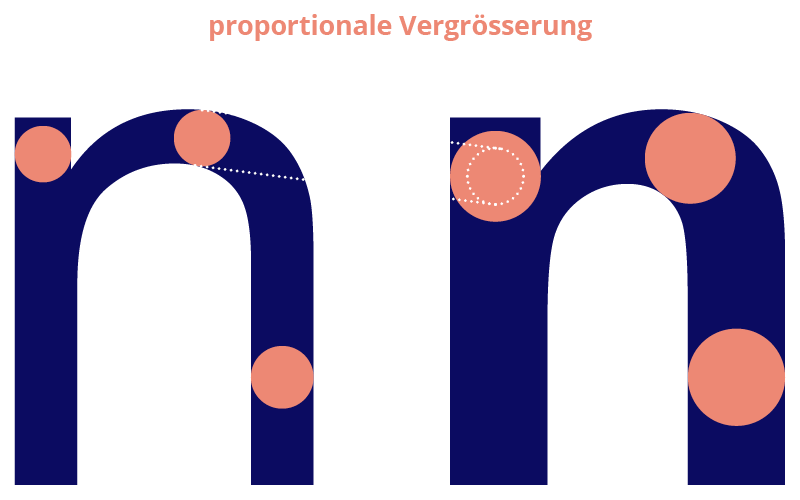
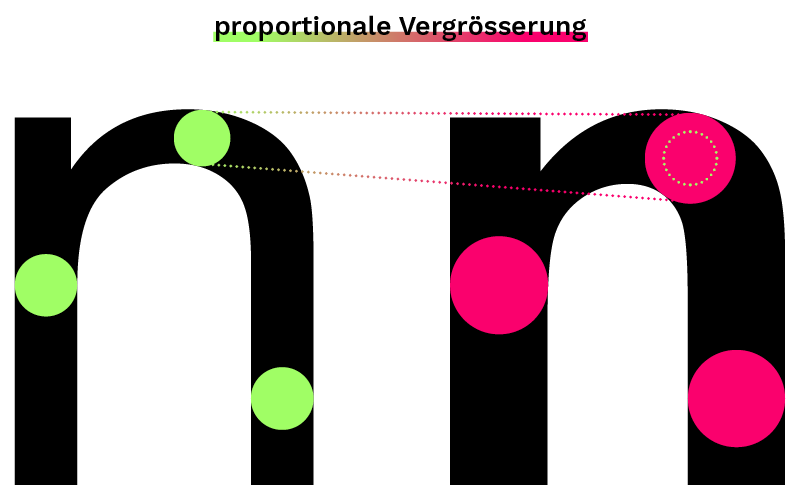
farbliche Anpassungen

diff --git a/docs/chantal.html b/docs/chantal.html
@@ -2,40 +2,41 @@
 <html lang="de">
   <head>
     <meta charset="utf-8">
-    <title>Strichstärken</title>
+    <title>Strichstärke</title>
     <link rel="stylesheet" href="./CSS/main.css" />
     <link rel="stylesheet" href="./CSS/examples.css" />
     <script src="./js/main.js"></script>
     <link rel="stylesheet" type="text/css" href="./CSS/chantal.css">
     <link href="https://fonts.googleapis.com/css2?family=Work+Sans:ital,wght@0,100;0,200;0,300;0,400;0,500;0,600;0,700;0,800;0,900;1,100;1,200;1,300;1,400;1,500;1,600;1,700;1,800;1,900&display=swap" rel="stylesheet">
-    <link href="https://fonts.googleapis.com/css?family=Open+Sans" rel="stylesheet" >
+    <link href="https://fonts.googleapis.com/css?family=Open+Sans" rel="stylesheet">
     </head>
 
   <body>
   <section class="wrapper">
 
   <div class="header bild_beschriftung">
-    <span>Strichstärke</span>
+    <span>STRICH<b>STÄRKE</b></span>
     <img src="./Links/chantal/Headerbild_transparent.png" alt="header"></img>
   </div>
 
   <div class="box sidebar">
-    <h2>Ursprung</h2>
   </div>
 
   <div class="box content">
-      <p>Die Bezeichnung «Strichstärke» findet ihren Ursprung in der Kalligraphie. Durch eine Schrägstellung der Schreibfeder gegenüber dem Grundstrich, entstanden «Aufstriche» mit unterschiedlichen Strichstärken (Kontrast), welche als Haarstrich bezeichnet wurden. Bei gebrochenen Schriften und vielen Dekorschriften (z.B. Bodoni, Broadway) ist die Betonung des Kontrastes ein häufiges Stilmittel (Abb. 1).
+      <h2>Ursprung</h2>
+        <p>Die Bezeichnung &laquo;Strichstärke&raquo; findet ihren Ursprung in der Kalligraphie. Durch eine Schrägstellung der Schreibfeder gegenüber dem Grundstrich, entstanden &laquo;Aufstriche&raquo; mit unterschiedlichen Strichstärken (Kontrast), welche als Haarstrich bezeichnet wurden. Bei gebrochenen Schriften und vielen Dekorschriften (z.B. Bodoni, Broadway) ist die Betonung des Kontrastes ein häufiges Stilmittel (Abb. 1).
         <br>
         <br>
-        Zusammen mit den Entwicklungen in der Drucktechnik, der Tinte und der Papierherstellung wurden kontrastreiche Buchstabenformen mit zarten Haarlinien gedruckt, die sich zunehmend von den geschriebenen Buchstabenformen ablösten. Mit der Digitalisierung der Schriften kamen immer häufiger lineare Strichstärken mit ungefähr gleichbleibend starken Grundstrichen (Abb. 2) zum Einsatz.</p>
+        Zusammen mit den Entwicklungen in der Drucktechnik, der Tinte und der Papierherstellung wurden kontrastreiche Buchstabenformen mit zarten Haarlinien gedruckt, die sich jedoch zunehmend von den geschriebenen Buchstabenformen ablösten. Mit der Digitalisierung der Schriften kamen immer häufiger lineare Strichstärken mit ungefähr gleichbleibend starken Grundstrichen zum Einsatz (Abb. 2).
+        </p>
   </div>
 
   <div class="box sidebar2">
         <img src="./Links/chantal/Auf-Abstrich.png" alt="Auf- und Abstrich" class="bild"></img>
-        <figcaption>Abb. 1 – betonter Kontrast</figcaption>
+        <figcaption>Abb. 1 &ndash; variable Strichstärke</figcaption>
         <br>
         <img src="./Links/chantal/gleiche_Dicke.png" alt="gleich bleibende Dicke" class="bild"></img>
-        <figcaption>Abb. 2 – gleichbleibender Grund-/Haarstrich </figcaption>
+        <figcaption>Abb. 2 &ndash; gleichbleibender Grund- und Haarstrich </figcaption>
   </div>
 </section>
 
@@ -43,66 +44,75 @@
 <section class="wrapper">
 
 <div class="box sidebar">
-  <h2>Theorie</h2>
 </div>
 
 <div class="box content">
-    <p>Eine dickere Schrift betont innerhalb eines Textes einzelne Wörter, während die Strichbreite der Schrift – durch fett gesetzte Überschriften – die Hierarchie im Design der Seite wiederspiegelt.
+    <h2>Theorie</h2>
+      <p>Eine dickere Schrift betont innerhalb eines Textes einzelne Wörter, während die Strichbreite der Schrift &ndash; durch fett gesetzte Überschriften &ndash; die Hierarchie im Design der Seite wiederspiegelt.
       <br>
       <br>
-      Schriftfamilien sind in der Regel in verschiedenen Strichstärken (englisch: font-weight) ausgebaut, z.B. leicht, normal, fett oder extrafett. Diese Bezeichnungen werden jedoch je nach Schriftart sehr uneinheitlich verwendet (Abb. 3+4). Für Lesetexte darf die Strichstärke weder zu fein sein, damit ausreichender Kontrast zum Untergrund gewährleistet ist, noch zu fett, da sonst die Punzen (Innenfläche eines Buchstabens) zu klein werden. </p>
+      Schriftfamilien sind in der Regel in verschiedenen Strichstärken (englisch: font-weight) ausgebaut, z.B. leicht, normal, fett oder extrafett. Wie schwarz eine Schrift ist, wird mit der Variation der Schriftstärke angegeben (Abb. 3).
+      <br>
+      <br>
+      Für Lesetexte darf die Strichstärke weder zu fein sein, damit ausreichender Kontrast zum Untergrund gewährleistet ist, noch zu fett, da sonst die Punzen (Innenfläche eines Buchstabens) zu klein werden (Abb. 4).
+      </p>
 </div>
 
 <div class="box sidebar2">
-      <img src="./Links/chantal/Schnitte_Helvetica-Neue.png" alt="Schriftstärken" class="bild"></img>
-      <figcaption>Abb. 3 – Helvetica Neue mit vordefinierten Schriftschnitten</figcaption>
+      <img src="./Links/chantal/Typo-Effekt.png" alt="Schriftstärken" class="bild"></img>
+      <figcaption>Abb. 3 &ndash; Porträt nur mit Wörtern im Typo-Effekt &nbsp;<a target="_blank" rel="noopener noreferrer" href="https://hoeser-medien.de/2017/12/text-generator-fuer-typo-effekt-photoshop-aktion/" style="text-decoration: none;"> (Quelle)</a> </figcaption>
       <br>
-      <img src="./Links/chantal/Schnitte_Roboto.png" alt="Schriftstärken" class="bild"></img>
-      <figcaption>Abb. 4 – Roboto arbeitet mit Zahlenwerten</figcaption>
+      <img src="./Links/chantal/Unterschied_Schriftschnitte.png" alt="Schriftstärken" class="bild"></img>
+      <figcaption>Abb. 4 &ndash; Links: zu wenig Schriftkontrast, Rechts: Die Punzen sind fast verschwunden</figcaption>
 </div>
 </section>
 
 <section class="wrapper">
 
 <div class="box sidebar">
-  <h2>CSS & HTML</h2>
 </div>
 
 <div class="box content">
-    <p>Auch hier bezeichnet die Strichstärke die Dicke und Stärke einer Schrift. Mit der Property «font-weight» wird bestimmst wie dick (fett) und stark eine Schrift angezeigt werden soll. Meist wird der Befehl «bold» für eine fette und «normal» für eine reguläre Schrift benutzt. Je nach Schrift kann die Strichstärke aber noch genauer festgelegt werden. Dies geschieht dann mit Zahlenwerten – z.B. mit <code>font-weight: 320;</code> </p>
+    <h2>CSS & HTML</h2>
+    <p>Auch hier bezeichnet die Strichstärke die Dicke und Stärke einer Schrift. Mit der Property <code>font-weight:</code> wird bestimmt wie dick (fett) und stark eine Schrift angezeigt werden soll (Abb. 5).
+      Meist wird der Befehl &laquo;bold&raquo; für eine fette und &laquo;normal&raquo; für eine reguläre Schrift benutzt. Je nach Schrift kann die Strichstärke aber noch genauer festgelegt werden. Dies geschieht dann mit Zahlenwerten.
+    </p>
     <br>
-<p>Folgende Properties sind möglich:
-  <p><code>font-weight: lighter;</code><br>= dünner als im Elternelement</p>
-<p><code>font-weight: normal;</code><br>= normale Strichstärke</p>
-<p><code>font-weight: bold;</code><br>= fett</p>
-<p><code>font-weight: bolder;</code><br>= fetter als im Elternelement</p>
-<p><code>font-weight: 100,200, … ,900;</code><br>= Thin (100) bis Black (900)</p>
-<p><code>font-weight: inherit;</code><br>= Strichstärke des Elternelements</p>
+<p><b>Folgende Properties sind möglich:</b>
+<p><code>font-weight: lighter;</code><br>&raquo; dünner als im Elternelement</p>
+<p><code>font-weight: normal;</code><br>&raquo; normale Strichstärke</p>
+<p><code>font-weight: bold;</code><br>&raquo; fett</p>
+<p><code>font-weight: bolder;</code><br>&raquo; fetter als im Elternelement</p>
+<p><code>font-weight: 100,200, … ,900;</code><br>&raquo; Thin (100) bis Black (900)</p>
+<p><code>font-weight: inherit;</code><br>&raquo; Strichstärke des Elternelements</p>
 </div>
 
 <div class="box sidebar2">
       <img src="./Links/chantal/Vergroesserung.png" alt="proportionale Vergrösserung" class="bild"></img>
-      <figcaption>Abb. 5 – "font-weight" = Mass für die Strichbreite einer Schrift</figcaption>
+      <figcaption>Abb. 5 &ndash; &laquo;font-weight&raquo;: Mass für die Strichbreite einer Schrift</figcaption>
 </div>
 </section>
 
 <section class="wrapper">
 
 <div class="box sidebar">
-  <h2>Work Sans</h2>
 </div>
 
 <div class="box content">
-    <p> Bei der Work Sans handelt es sich um eine Schriftfamilie in Anlehnung früher Groteskschriften (z.B. Bauerschen Giesserei), welche vom – in China geborenen – australischen Typografie-Designer Wei Huang kreiert wurde.
+    <h2>Work Sans</h2>
+      <p> Bei der Work Sans handelt es sich um eine serifenlose Schriftfamilie in Anlehnung früher Groteskschriften (z.B. Bauerschen Giesserei), welche vom &ndash; in China geborenen &ndash; australischen Typografie-Designer Wei Huang kreiert wurde.
       <br>
       <br>
-      Er entwirft und produziert Schriften, gibt Unterricht und stellt seine Arbeiten aus. Für Huang fühlt sich das Zeichnen von Schriften wie Meditation an. Die Work Sans wurde für den Druck als auch für die Online-Anwendung optimiert (Abb. 6). Sie in neun Strichstärken erhältlich und wurde 2018 mit kursiven Schnitten ergänzt.
-</p>
+        Heute entwirft und produziert er Schriften, gibt Unterricht und stellt seine Arbeiten aus. Für Huang fühlt sich das Zeichnen von Schriften wie Meditation an.
+      <br>
+      <br>
+        Die Work Sans wurde sowohl für den Druck als auch für die Online-Anwendung optimiert (Abb. 6). Sie ist in neun Strichstärken erhältlich und wurde 2018 mit kursiven Schnitten (nur für Web erhältlich) ergänzt.
+      </p>
       </div>
 
       <div class="box sidebar2">
-        <img src="./Links/chantal/Playfair-Display.gif" alt="Work Sans" class="bild"></img>
-      <figcaption>Abb. 6 – Work Sans in all ihren Schnitten</figcaption>
+        <img src="./Links/chantal/Work-Sans-Schnitte.png" alt="Work Sans" class="bild"></img>
+      <figcaption>Abb. 6 &ndash; Work Sans in neuen Strichstärken</figcaption>
     </div>
 </section>
 
@@ -110,20 +120,20 @@
 <section class="wrapper">
 
 <div class="box sidebar">
-  <h2>Quellen</h2>
 </div>
 
 <div class="box content">
+  <h2>Quellen</h2>
       <ul style="list-style-type:square">
-          <li><a target="_blank" rel="noopener noreferrer" href="https://de.wikipedia.org/wiki/Strichst%C3%A4rke" style="text-decoration: none;">Wikipedia: Strichstärke</a></li>
-          <li><a target="_blank" rel="noopener noreferrer" href="https://www.leserlich.info/kapitel/zeichen/strichstaerke.php" style="text-decoration: none;">Kapitel Strichstärke auf "leserlich.info"</a></li>
-          <li><a target="_blank" rel="noopener noreferrer" href="https://wiki.selfhtml.org/wiki/CSS/Eigenschaften/Schriftformatierung/font-weight" style="text-decoration: none;">Kapitel font-weight auf "wiki.selfhtml.org"</a></li>
-          <li><a target="_blank" rel="noopener noreferrer" href="https://fonts.google.com/specimen/Work+Sans?query=work+sans#standard-styles" style="text-decoration: none;">Google Fonts</a></li>
-          <li><a target="_blank" rel="noopener noreferrer" href="https://www.typografie.info/3/Schriften/fonts.html/work-sans-r1149/" style="text-decoration: none;">Font-Wiki</a></li>
+        <li><a target="_blank" rel="noopener noreferrer" href="https://de.wikipedia.org/wiki/Strichst%C3%A4rke" style="text-decoration: none;">Wikipedia: Strichstärke</a></li>
+        <li><a target="_blank" rel="noopener noreferrer" href="https://www.leserlich.info/kapitel/zeichen/strichstaerke.php" style="text-decoration: none;">Kapitel Strichstärke auf &laquo;leserlich.info&raquo;</a></li>
+        <li><a target="_blank" rel="noopener noreferrer" href="https://wiki.selfhtml.org/wiki/CSS/Eigenschaften/Schriftformatierung/font-weight" style="text-decoration: none;">Kapitel font-weight auf &laquo;wiki.selfhtml.org&raquo;</a></li>
+        <li><a target="_blank" rel="noopener noreferrer" href="https://fonts.google.com/specimen/Work+Sans?query=work+sans#standard-styles" style="text-decoration: none;">Google Fonts</a></li>
+        <li><a target="_blank" rel="noopener noreferrer" href="https://www.typografie.info/3/Schriften/fonts.html/work-sans-r1149/" style="text-decoration: none;">Font-Wiki</a></li>
       </ul>
-
 </div>
 </section>
+
 
 
 <!-- start navigation -->

diff --git a/docs/CSS/chantal.css b/docs/CSS/chantal.css
@@ -42,7 +42,6 @@ body {
 
 
 
-
 /* Responsive */
 
   @media only screen and (min-width: 500px)  {
@@ -53,15 +52,11 @@ body {
       "sidebar  content"
       "sidebar sidebar2";
       }
-
-      .sidebar {
-        margin-bottom: 20px;
-      }
   }
 
   @media only screen and (min-width: 600px)   {
       .wrapper {
-          grid-template-columns: 1fr 2fr 2fr;
+          grid-template-columns: 0.6fr 2fr 2fr;
           grid-template-areas:
           "header  header  header"
           "sidebar content sidebar2";
@@ -78,7 +73,6 @@ margin-top: 5px;
 
 h2 {
   margin-top: 0px;
-  text-align: right;
   font-family: 'Work Sans', sans-serif;
   font-size: 22pt;
 }
@@ -103,11 +97,12 @@ ul {
   color: black;
 }
 
+
 span {
-  font-size: 12vw;
-  font-weight: bold;
+  font-size: 11vw;
+  font-weight: 100;
   position: static;
-  margin-top: 30px;
+  margin-top: 35px;
 }
 
 a:link {
